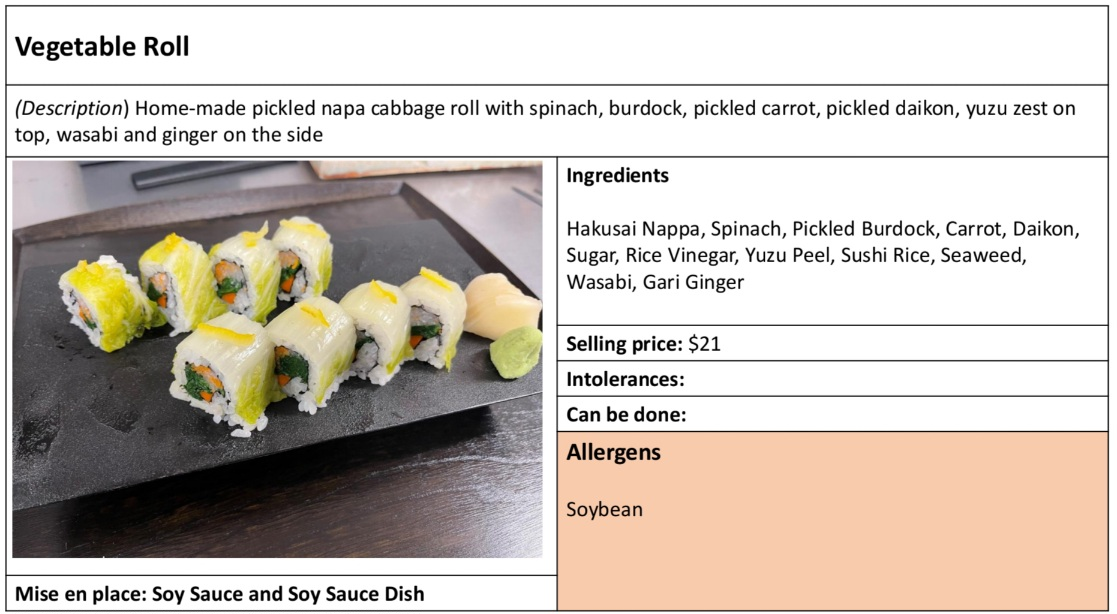
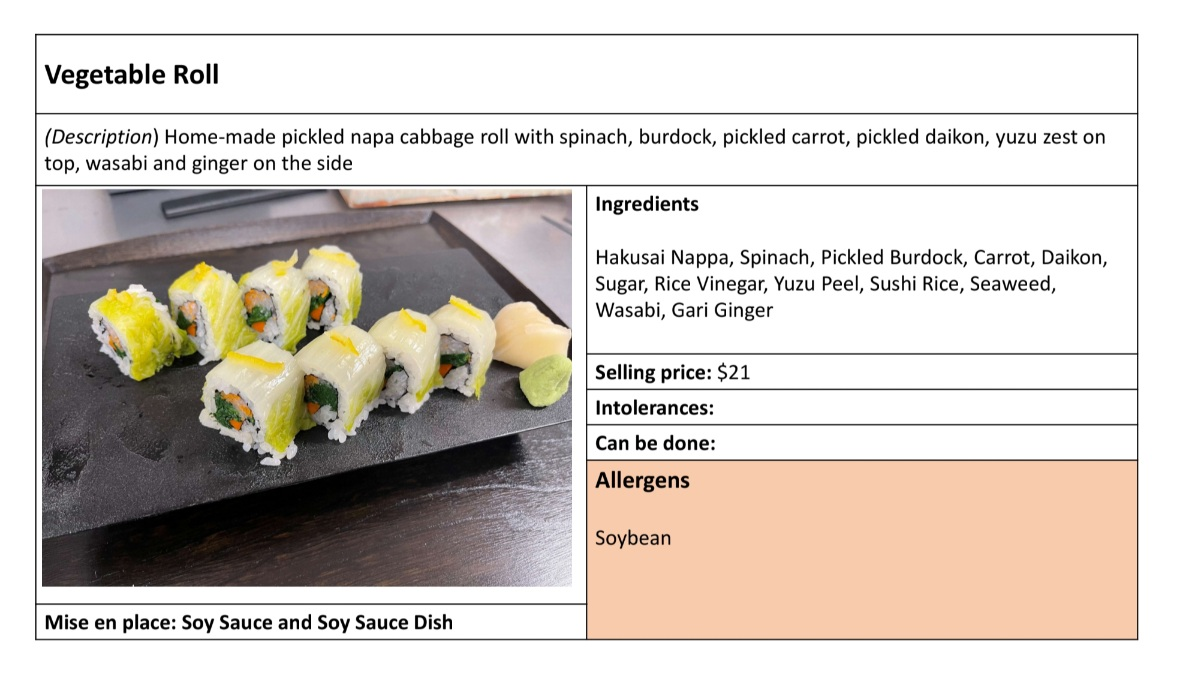
update pic: vegetable roll

diff --git a/app/manager/page.jsx b/app/manager/page.jsx
@@ -3006,7 +3006,7 @@ export default function ManagerDinnerPage() {
           <div className='modal-content'>
           
           <div>
-            <img src='vegetable-roll.jpg' />
+            <img src={`vegetable-roll.jpg?v={Date.now()}`} />
           </div>
           <div className='modal-text'>
                           

diff --git a/app/page.jsx b/app/page.jsx
@@ -3141,7 +3141,7 @@ appetizers, seasonal plates, and dessert.
           <div className='modal-content'>
           
           <div>
-            <img src='vegetable-roll.jpg' />
+            <img src={`vegetable-roll.jpg?v={Date.now()}`} />
           </div>
           <div className='modal-text'>
                           
